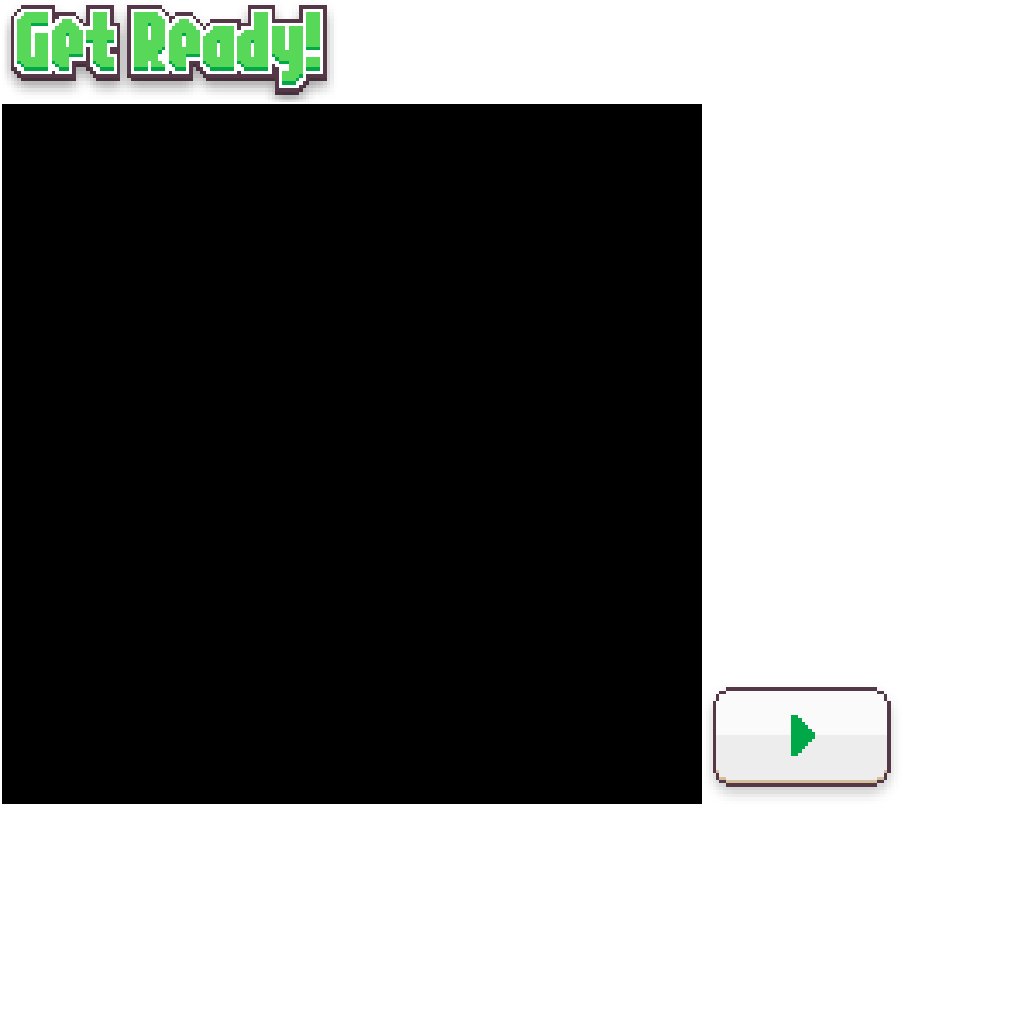
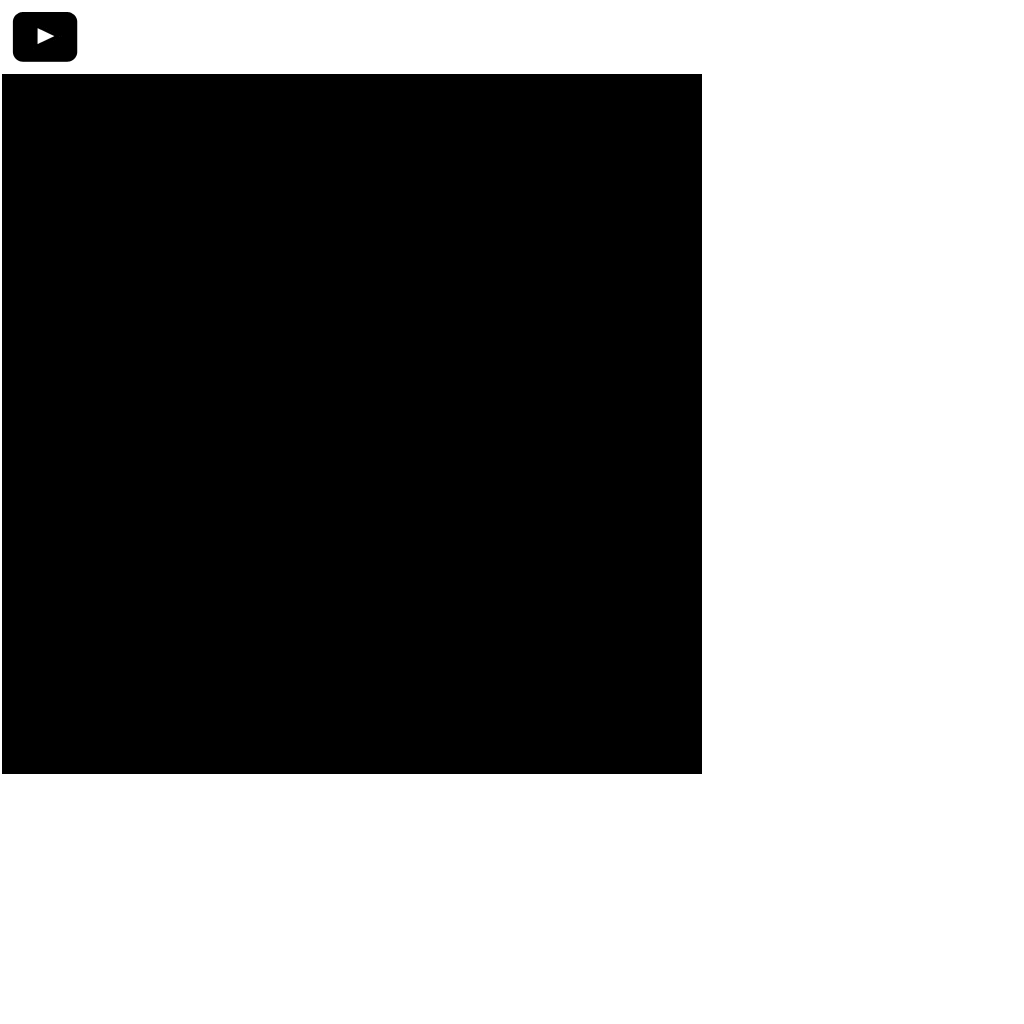
New Play button courtesy of Bees

Changed region(s): [[0.0, 0.0, 0.6875, 0.125], [0.0, 0.6562, 0.875, 0.8125]]

diff --git a/core/src/com/eddie/executiveexperience/UI/HomeScreenScript.java b/core/src/com/eddie/executiveexperience/UI/HomeScreenScript.java
@@ -25,7 +25,7 @@ public class HomeScreenScript implements IScript
     {
         menu = item;
 
-        ImageItem playBtn = item.getImageById("startBtn");
+        ImageItem playBtn = item.getImageById("playBtn");
 
         // Adding a Click listener to playButton so we can start game when clicked
         playBtn.addListener(new ClickListener()
